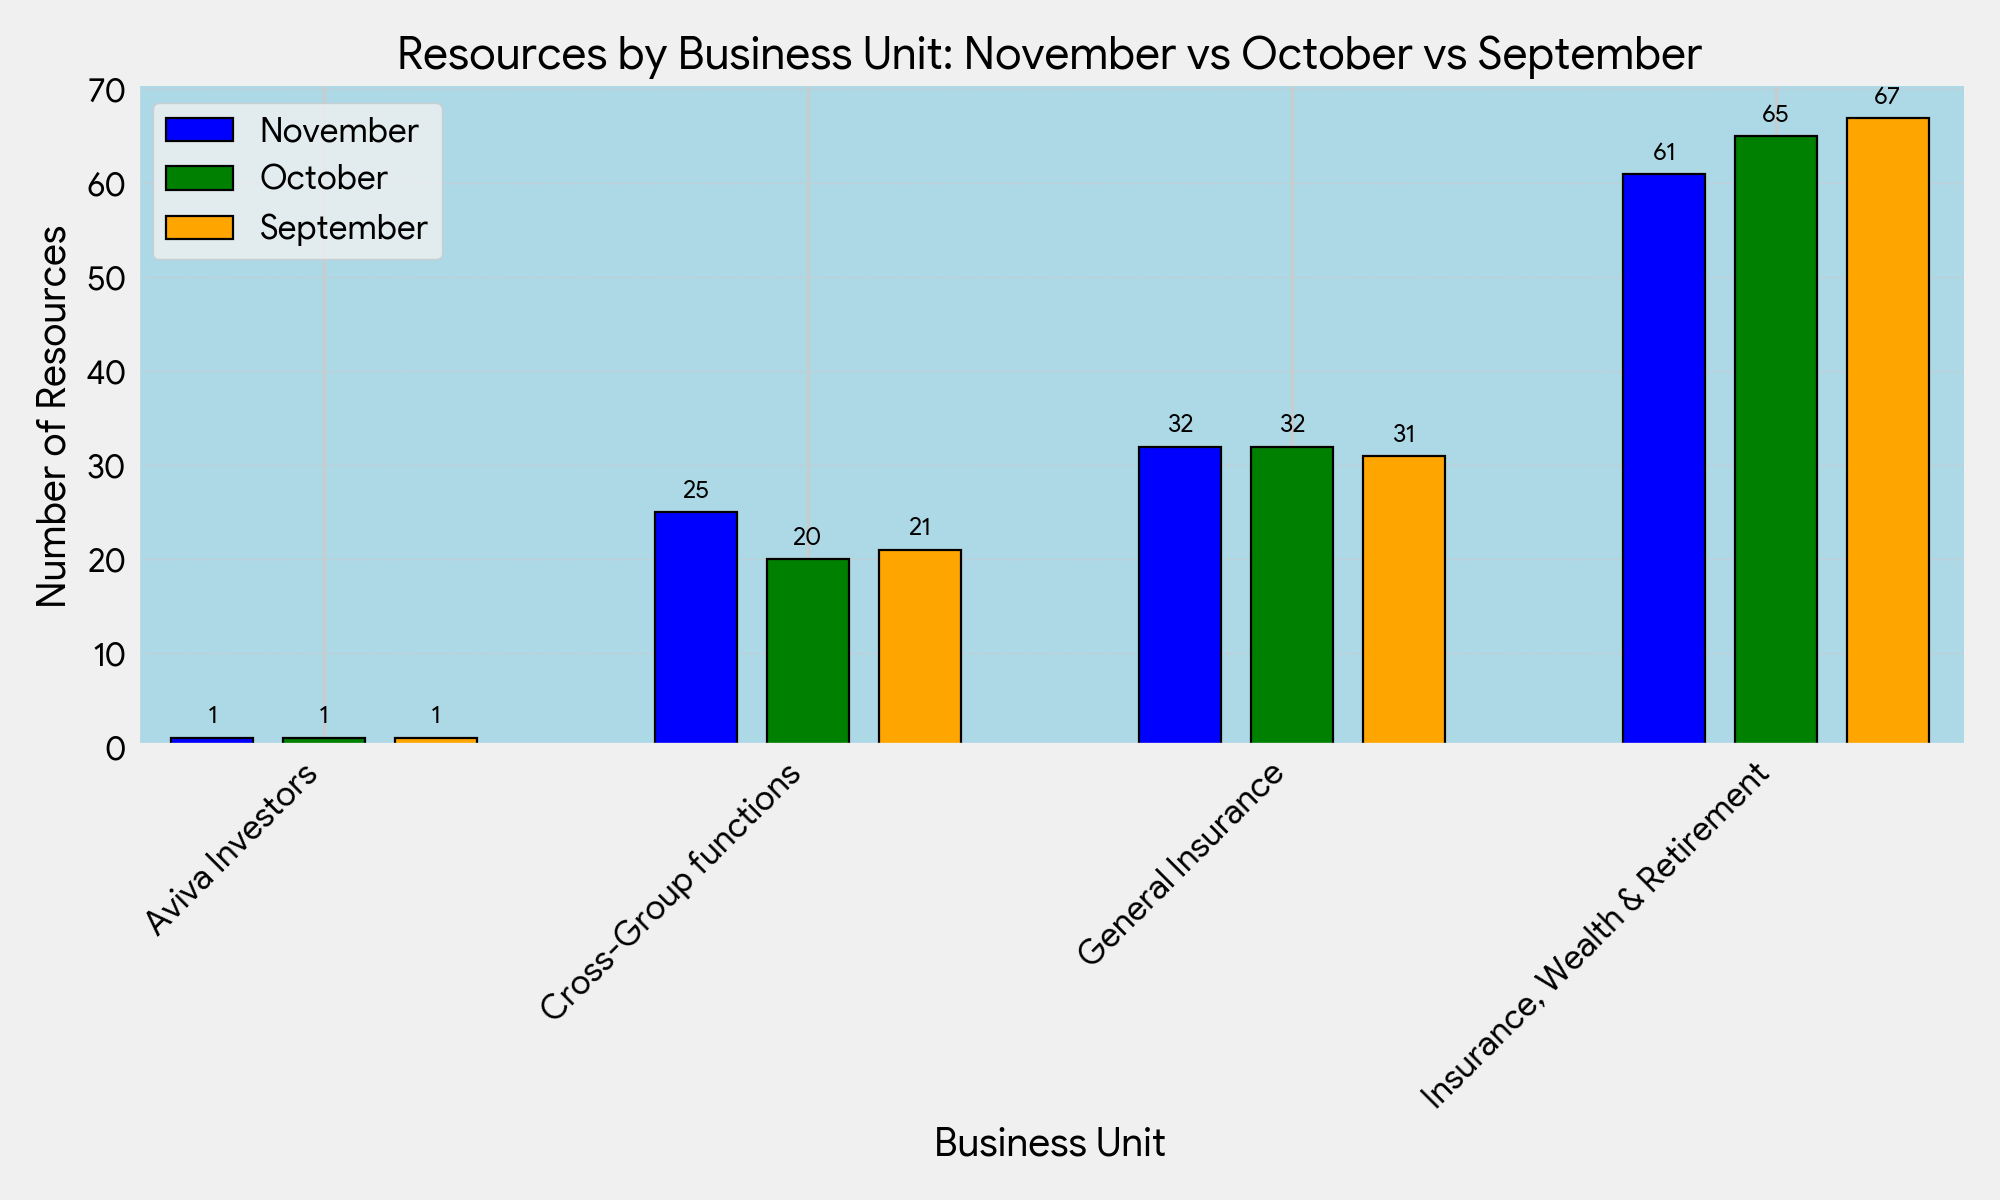
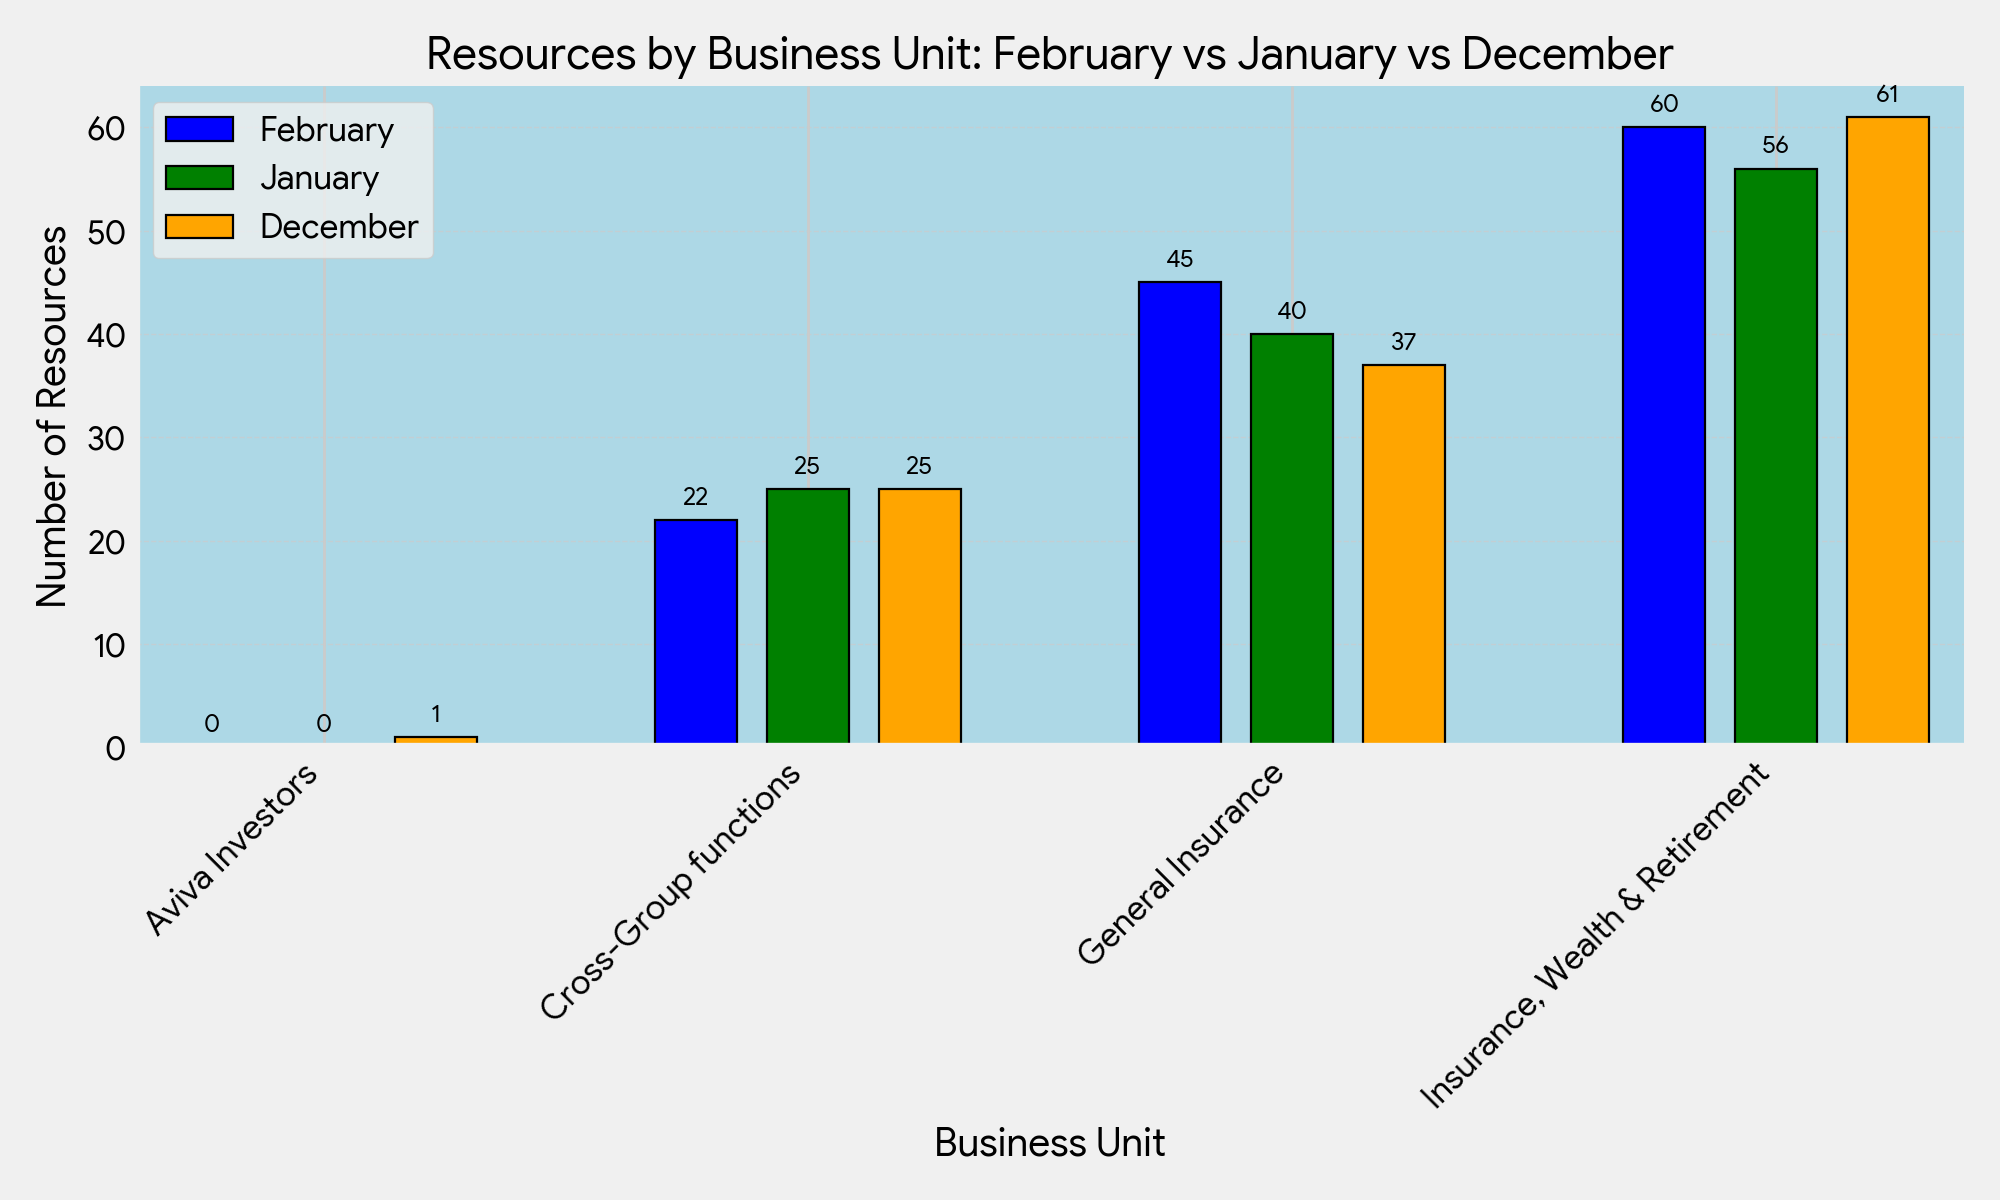
added Feb 2026

diff --git a/config.py b/config.py
@@ -9,13 +9,13 @@ FONT_SIZE = 12
 OUTPUT_DIR = "outputs"
 
 # Sheet names
-SHEET_1 = "DATA_Nov25"
-SHEET_2 = "DATA-Oct25"
-SHEET_3 = "Data_SEPT25"
+SHEET_1 = "DATA_Feb26"
+SHEET_2 = "DATA_Jan26"
+SHEET_3 = "DATA_Dec25"
 
-MONTH_1 = "November"
-MONTH_2 = "October"
-MONTH_3 = "September" 
+MONTH_1 = "February"
+MONTH_2 = "January"
+MONTH_3 = "December"
 
 # Column mapping
 CATEGORIES = {
